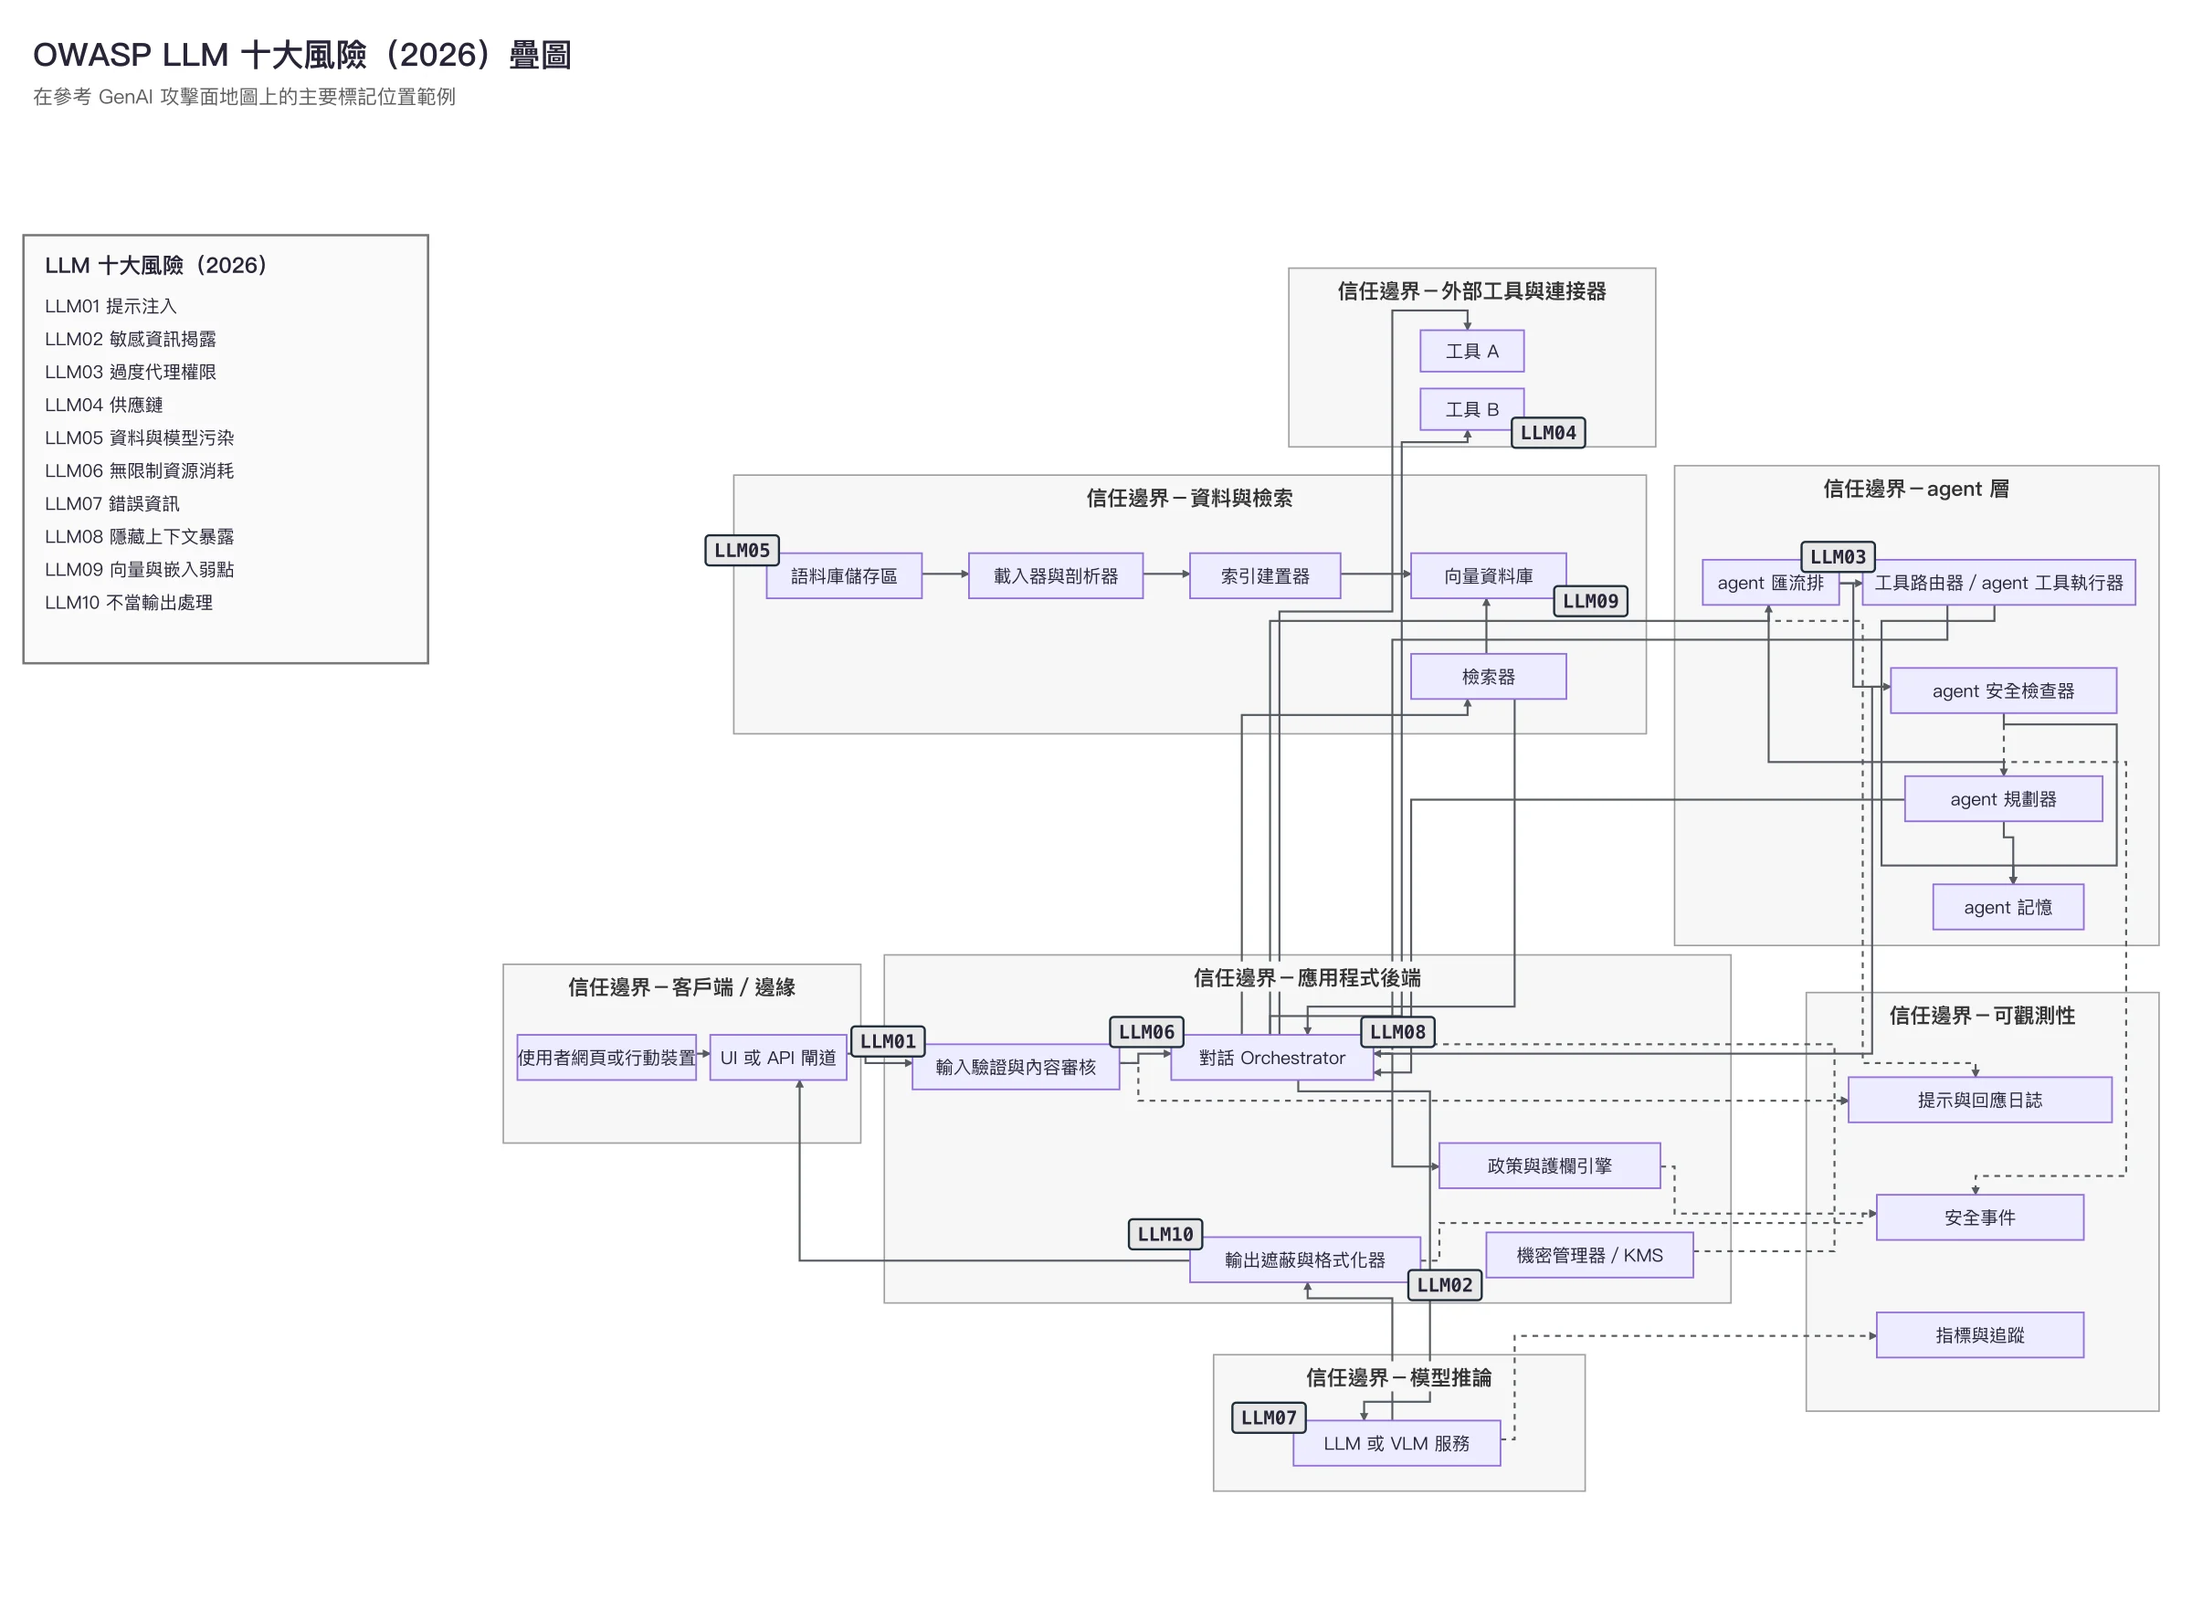
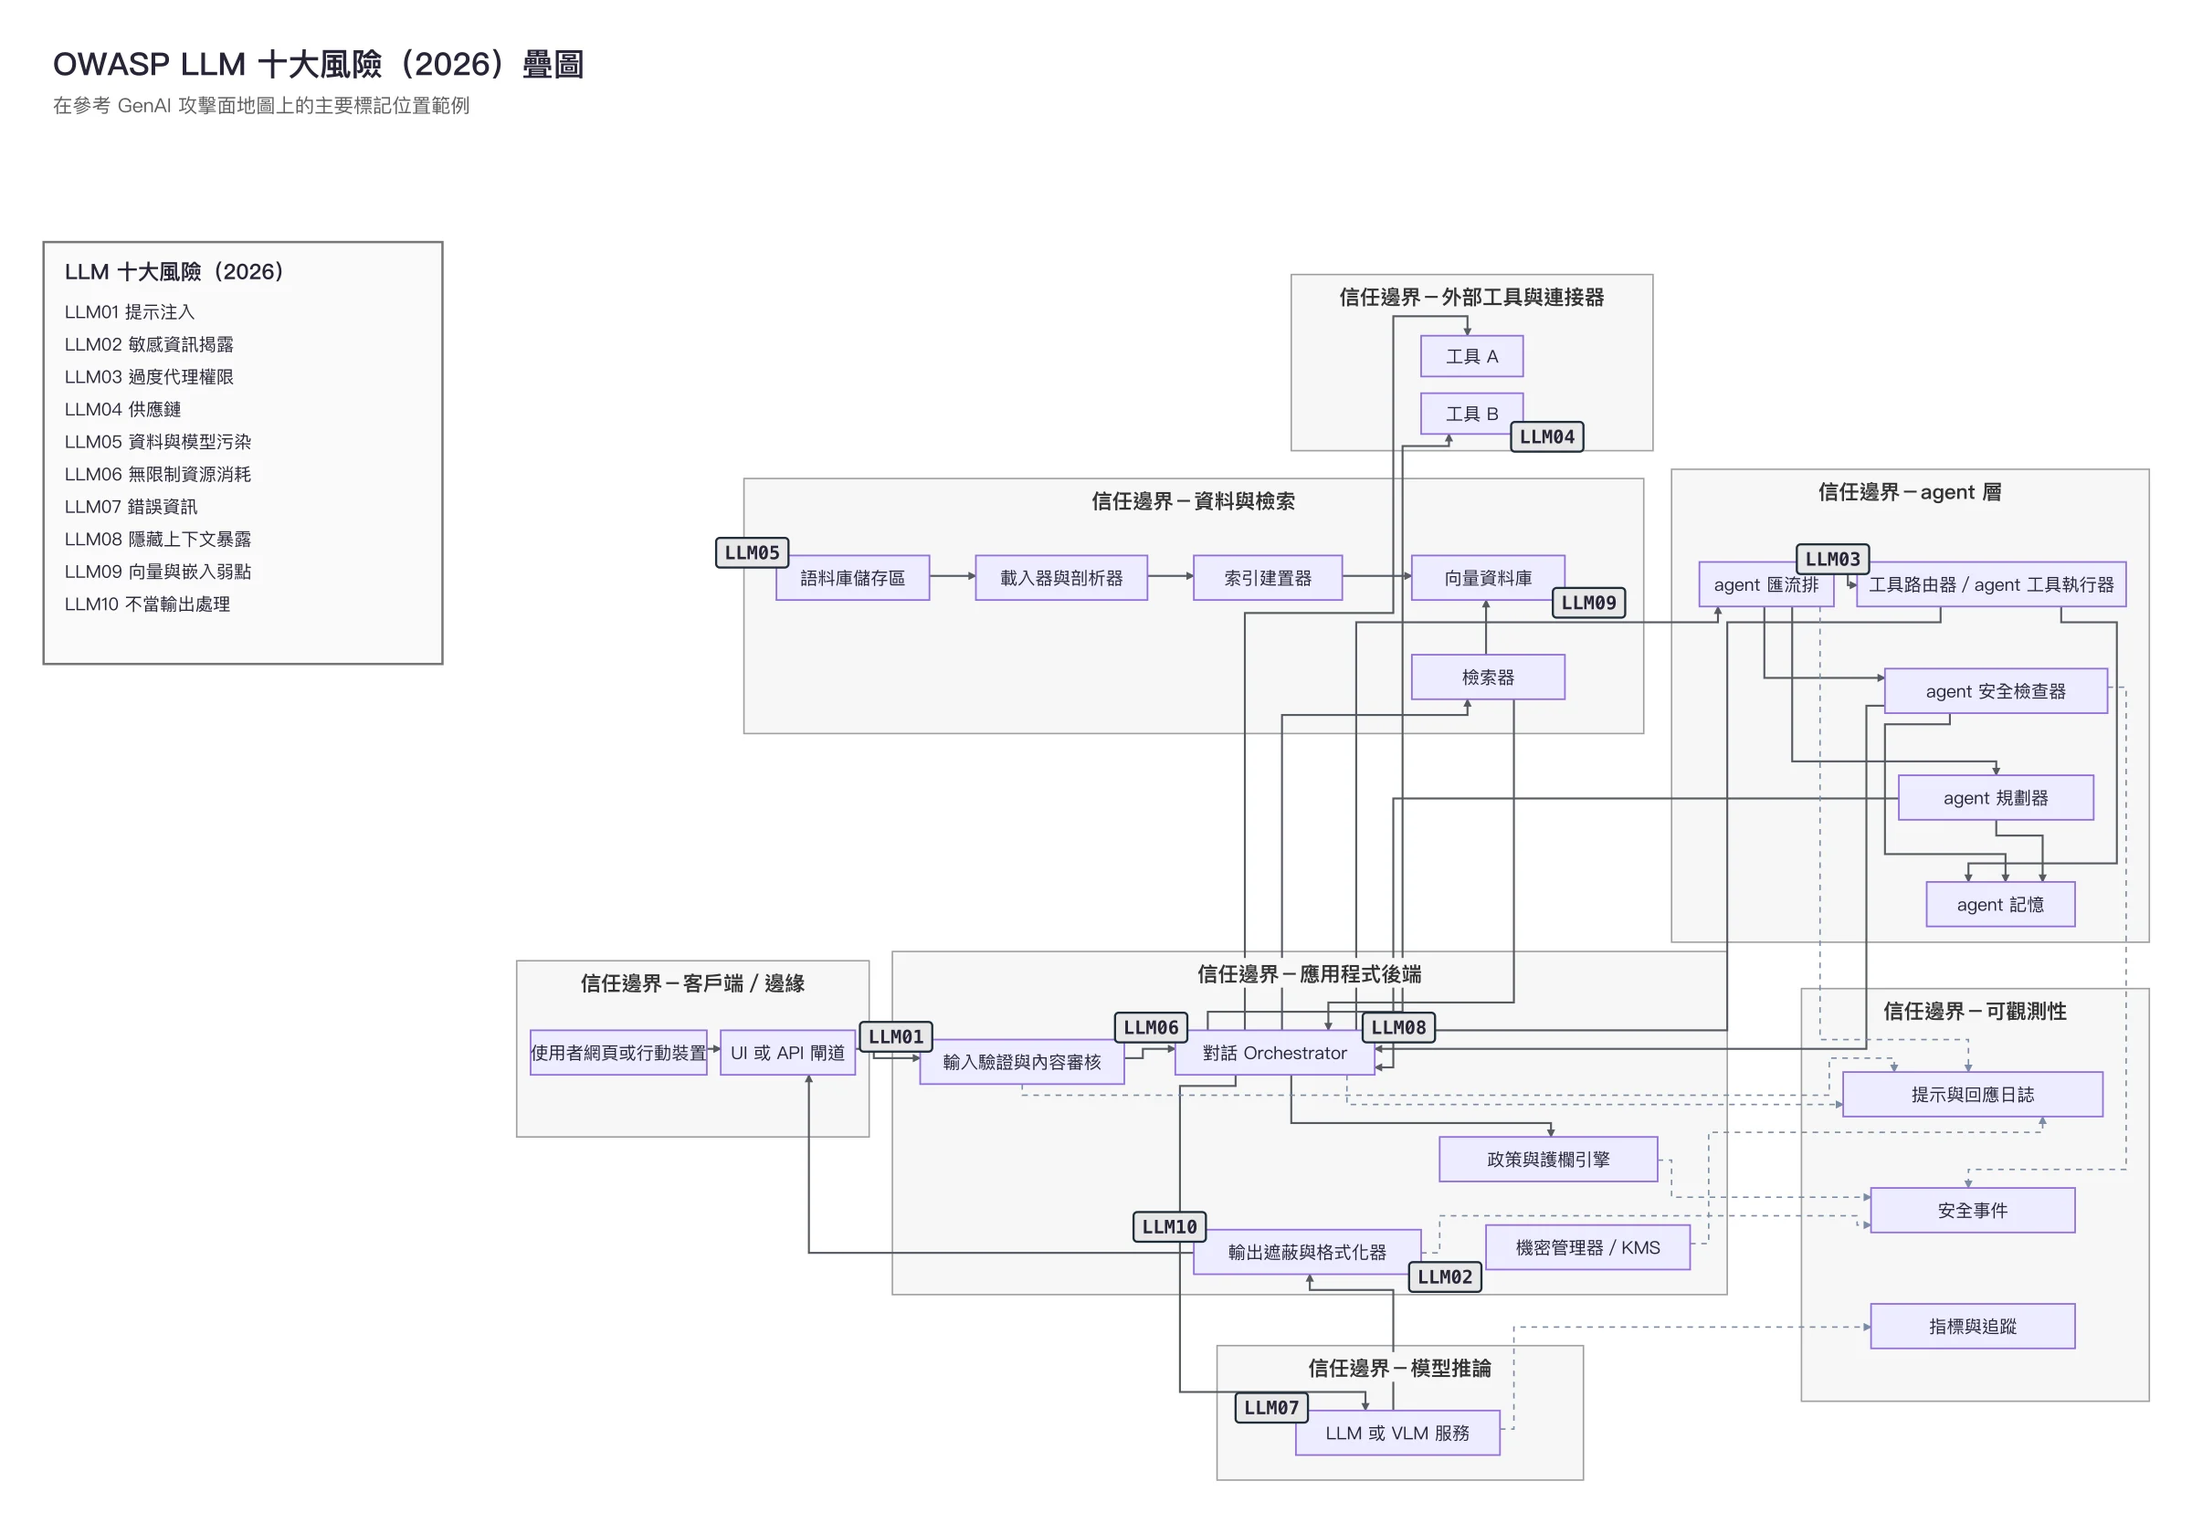
Refine architecture figures: separate overlapping edges, add canvas margin
- 走線避讓：Orchestrator 兩側連線不再合流，遙測虛線改藍灰細線
- 疊圖右緣徽章補畫布邊距，不再被裁切

diff --git a/index.html b/index.html
@@ -159,7 +159,7 @@ dialog#zoom button{position:fixed;top:10px;right:10px;z-index:2;min-width:44px;m
 <p>偵察階段有兩句警語。其一，拒答的措辭只是行為線索，不是可靠的指紋；上游的安全閘道、<a class="term" href="glossary.html#t-system-prompt" title="開發者給模型的隱藏指令；絕不可當機密儲存區。">系統提示</a>（system prompt）、客製微調與例行的模型更新，都會改變或模仿拒答風格，所以不要把模型家族的推測當成確認事實寫進報告（p.27）。緊接著的第三階段開頭也有類似提醒：模型自稱的身分，只能當作未經驗證的說法（p.31）。其二，<a class="term" href="glossary.html#t-supply-chain-llm04-2026" title="模型、資料集、套件、MCP server 與 skill 等第三方元件引入的風險。">供應鏈</a>偵察時，<a class="term" href="glossary.html#t-software-composition-analysis-sca" title="掃描第三方套件已知漏洞的工具；掃描乾淨不等於安全。">軟體組成分析</a>（SCA）掃描乾淨或查無 <a class="term" href="glossary.html#t-cve" title="公開揭露漏洞的統一編號；查無 CVE 不代表沒有漏洞。">CVE</a> 都不能證明安全（p.29）。手冊進一步指出，在所有主要的 AI 編排框架中，安全發現常被廠商歸類為「不適用」「開發者錯誤」「預期行為」或「受信任的組態行為」，並在沒有正式 CVE 的情況下修補，導致漏洞資料庫顯示乾淨，可被利用的程式碼卻還在線上（p.29）。這段說法的來源範圍，下文「使用時要留意」一節會再談。</p>
 <h2 id="sec-3">能強制的邊界，只能放在模型改寫不了的地方</h2>
 <p>第三階段「<a class="term" href="glossary.html#t-attack-surface" title="系統可被接觸、影響或觀察的所有入口與介面。">攻擊面</a>盤點」是導讀者認為全書最值得精讀的一章。它要求團隊畫出端到端的資料流圖，追蹤指令、資料、身分、權限、狀態、輸出、遙測與部署<a class="term" href="glossary.html#t-artifact" title="演練產生的證據、腳本與報告；手冊中 Red／Blue Artifact 保留英文。">產出物</a>如何在系統裡移動，每一條流都記錄來源、目的地、主體、信任等級、資料分級、持久性、執行能力、控制、對外網路與資源預算（p.34）。這段的最後一句，就是開頭引過的那條軸心（p.34）。</p>
-<figure class="fig"><div class="fig-scroll" tabindex="0" role="group" aria-label="圖片，窄螢幕可左右捲動"><a class="zoom" href="images/fig-surface-map.webp" data-zoom aria-label="放大檢視：手冊的參考攻擊面地圖"><img src="images/fig-surface-map.webp" alt="手冊的參考攻擊面地圖" width="2400" height="1834" loading="lazy" decoding="async"></a></div><figcaption>手冊的參考攻擊面地圖：把 GenAI 系統切成客戶端／邊緣、應用後端、代理層、資料與檢索、模型推論、外部工具與連接器、可觀測性等信任區，每個區之間都是一條需要標注控制的信任邊界。圖為手冊 p.40 圖片之繁體中文翻譯</figcaption></figure>
+<figure class="fig"><div class="fig-scroll" tabindex="0" role="group" aria-label="圖片，窄螢幕可左右捲動"><a class="zoom" href="images/fig-surface-map.webp" data-zoom aria-label="放大檢視：手冊的參考攻擊面地圖"><img src="images/fig-surface-map.webp" alt="手冊的參考攻擊面地圖" width="2400" height="1804" loading="lazy" decoding="async"></a></div><figcaption>手冊的參考攻擊面地圖：把 GenAI 系統切成客戶端／邊緣、應用後端、代理層、資料與檢索、模型推論、外部工具與連接器、可觀測性等信任區，每個區之間都是一條需要標注控制的信任邊界。圖為手冊 p.40 圖片之繁體中文翻譯</figcaption></figure>
 <p>這張參考地圖（Figure 2A，p.40）對應手冊列出的參考區域：客戶端／邊緣、應用後端、代理與編排、資料與檢索（RAG）、模型推論、外部工具與連接器、可觀測性，另外還有 CI/CD 控制平面（p.34）。手冊要求在每一條邊界上標注認證授權規則、實際生效的身分、範圍、機密性、持久性、對外網路與<a class="term" href="glossary.html#t-deterministic-controls" title="不受模型行為影響、結果固定的強制機制，是真正的安全邊界。">確定性控制</a>，並註明控制是在頻外（<a class="term" href="glossary.html#t-out-of-band-oob" title="不經主要通道傳遞憑證或通知，避免被模型或 prompt 看到。">out-of-band</a>）強制，還是經由模型中介（p.34）。後面幾節談到的每一種攻擊，都可以回到這張圖上找它跨過了哪一條線。</p>
 <h3>每個控制都要回答四個問題</h3>
 <p>手冊對「控制」的盤點有一個很實用的格式。輸入驗證器、內容審核、<a class="term" href="glossary.html#t-dlp" title="偵測並阻止敏感資料離開組織的機制。">DLP</a>、護欄（<a class="term" href="glossary.html#t-guardrail" title="限制模型輸入輸出的防護層，本身是可被測量與繞過的 ML 目標。">guardrail</a>）、結構描述驗證、工具路由、輸出編碼、出口代理伺服器、成本上限、<a class="term" href="glossary.html#t-circuit-breaker" title="異常流量或失控行為達門檻時自動切斷的控制。">斷路器</a>、人工<a class="term" href="glossary.html#t-approval-gate" title="動作執行前必須通過的人工或系統核准點。">核准關卡</a>，每一個都要記錄四件事：它是預防還是偵測、是建議性還是強制性、失效時是開放還是關閉（<a class="term" href="glossary.html#t-fail-open-fail-closed" title="控制本身故障時是放行還是阻擋；安全控制應失效關閉。">fail-open</a>／fail-closed）、模型的行為能不能影響它的政策或輸入（p.35）。</p>
@@ -172,8 +172,8 @@ dialog#zoom button{position:fixed;top:10px;right:10px;z-index:2;min-width:44px;m
 <p>工具與 AI 代理的盤點，手冊要求逐項記錄來源與版本、結構描述、實際權限、憑證來源、對外連線、副作用、可逆性、是否需要核准、沙箱與每個任務的預算，並把動態提供的工具描述與結構描述一律視為未經驗證（p.37）。同一段還有一句容易讀過就忘：記錄是否有非代理型、或代理權限較低的設計就能滿足同樣的使用情境（p.37）。換句話說，手冊把「這裡真的需要 AI 代理嗎」也列進了攻擊面盤點。</p>
 <h3>威脅建模照自己的風險排序，不照 OWASP 編號</h3>
 <p>有了地圖，威脅建模就是把它變成可測試的假設。手冊把 OWASP LLM 應用十大風險 2026 與代理型應用十大風險 2026 當作互補的兩個鏡頭：前者涵蓋模型與應用風險，後者著重模型成為行動者之後的自主性、工具、記憶、委派、代理間通訊與擴散（p.44）。它也訂了版本標記規則：每個標記都要附上版本（例如 <a class="term" href="glossary.html#t-excessive-agency-llm03-2026" title="agent 被賦予超出任務所需的工具、權限或自主性。">LLM03</a>:2026），或在所屬表格、段落中明示版本，不要把 2025 版的編號沿用下去（p.44）。</p>
-<figure class="fig"><div class="fig-scroll" tabindex="0" role="group" aria-label="圖片，窄螢幕可左右捲動"><a class="zoom" href="images/fig-llm-top10-overlay.webp" data-zoom aria-label="放大檢視：OWASP LLM Top 10（2026）各項風險在參考攻擊面地圖上的主要發生位置"><img src="images/fig-llm-top10-overlay.webp" alt="OWASP LLM Top 10（2026）各項風險在參考攻擊面地圖上的主要發生位置" width="2400" height="1777" loading="lazy" decoding="async"></a></div><figcaption>OWASP LLM Top 10（2026）各項風險在參考攻擊面地圖上的主要發生位置。圖為手冊 p.45 圖片之繁體中文翻譯</figcaption></figure>
-<figure class="fig"><div class="fig-scroll" tabindex="0" role="group" aria-label="圖片，窄螢幕可左右捲動"><a class="zoom" href="images/fig-agentic-top10-overlay.webp" data-zoom aria-label="放大檢視：OWASP Agentic Top 10（2026）各項風險在參考攻擊面地圖上的主要發生位置"><img src="images/fig-agentic-top10-overlay.webp" alt="OWASP Agentic Top 10（2026）各項風險在參考攻擊面地圖上的主要發生位置" width="2400" height="1777" loading="lazy" decoding="async"></a></div><figcaption>OWASP Agentic Top 10（2026）各項風險在參考攻擊面地圖上的主要發生位置。圖為手冊 p.46 圖片之繁體中文翻譯</figcaption></figure>
+<figure class="fig"><div class="fig-scroll" tabindex="0" role="group" aria-label="圖片，窄螢幕可左右捲動"><a class="zoom" href="images/fig-llm-top10-overlay.webp" data-zoom aria-label="放大檢視：OWASP LLM Top 10（2026）各項風險在參考攻擊面地圖上的主要發生位置"><img src="images/fig-llm-top10-overlay.webp" alt="OWASP LLM Top 10（2026）各項風險在參考攻擊面地圖上的主要發生位置" width="2400" height="1668" loading="lazy" decoding="async"></a></div><figcaption>OWASP LLM Top 10（2026）各項風險在參考攻擊面地圖上的主要發生位置。圖為手冊 p.45 圖片之繁體中文翻譯</figcaption></figure>
+<figure class="fig"><div class="fig-scroll" tabindex="0" role="group" aria-label="圖片，窄螢幕可左右捲動"><a class="zoom" href="images/fig-agentic-top10-overlay.webp" data-zoom aria-label="放大檢視：OWASP Agentic Top 10（2026）各項風險在參考攻擊面地圖上的主要發生位置"><img src="images/fig-agentic-top10-overlay.webp" alt="OWASP Agentic Top 10（2026）各項風險在參考攻擊面地圖上的主要發生位置" width="2400" height="1640" loading="lazy" decoding="async"></a></div><figcaption>OWASP Agentic Top 10（2026）各項風險在參考攻擊面地圖上的主要發生位置。圖為手冊 p.46 圖片之繁體中文翻譯</figcaption></figure>
 <p>這兩張疊圖（Figure 2C，p.45；Figure 2D，p.46）把各項風險標記貼在 Figure 2A 的元件上。手冊附了一條<a class="term" href="glossary.html#t-placement-rule" title="威脅標記放在它主要發生的元件，不代表只適用該處。">標記放置規則</a>：疊圖標示的是主要發生處，不代表只適用於該處；標記放在威脅實質生效的第一個斷點，只有在某處是重要的預防、偵測、圍堵或復原位置時才加第二個標記，避免把同一個標記貼滿所有可能被波及的元件（p.46）。讀圖時記住這條規則，就不會把它誤讀成「LLM01 只發生在應用後端」。</p>
 <p>排序要依本地風險，只看 OWASP 編號不夠，要考量業務與安全衝擊、可利用性、實際權限與代理權限、持久性、跨 <a class="term" href="glossary.html#t-session" title="一段連續互動；跨 session 存活是持久化的判準。">session</a> 或<a class="term" href="glossary.html#t-cross-tenant" title="資料或指令越過不同客戶之間的隔離邊界。">跨租戶</a>的觸及範圍、擴散與扇出、資源成本的不對稱、人的依賴程度、<a class="term" href="glossary.html#t-detectability" title="攻擊在遙測與 SOC 中被看見的程度，是嚴重度評分維度之一。">可偵測性</a>，以及回復與圍堵的難度（p.49）。產出物則是一份有版本的威脅登錄表、事先寫明的判定準則、<a class="term" href="glossary.html#t-regression-test" title="把確認的發現做成可重複執行的測試，防止修好的問題無聲復活。">迴歸測試</a>包與上線關卡。手冊對關卡的要求是整章最有力的一句：關卡應該擋下確定性控制的失效，例如授權繞過、未簽署的產出物、不安全的輸出去向、跨租戶檢索、沒有上限的工具扇出、缺少<a class="term" href="glossary.html#t-kill-switch" title="能立即終止 agent 或工具的控制，缺少它應擋在上線關卡。">緊急停止開關</a>；模型拒答率不能拿來當作安全的證明（p.49）。<a class="term" href="glossary.html#t-threat-model" title="列出資產、資料流、信任邊界與威脅的有版本控管的活文件。">威脅模型</a>本身也要當成和應用程式一起版本控管的活文件，只要模型、系統提示、RAG 語料、向量資料庫、工具或 MCP 伺服器、權限、記憶設計等任何一項變動就要更新（p.49）。</p>
 <h2 id="sec-4">每一種攻擊得手，都在指認一條沒守住的邊界</h2>
